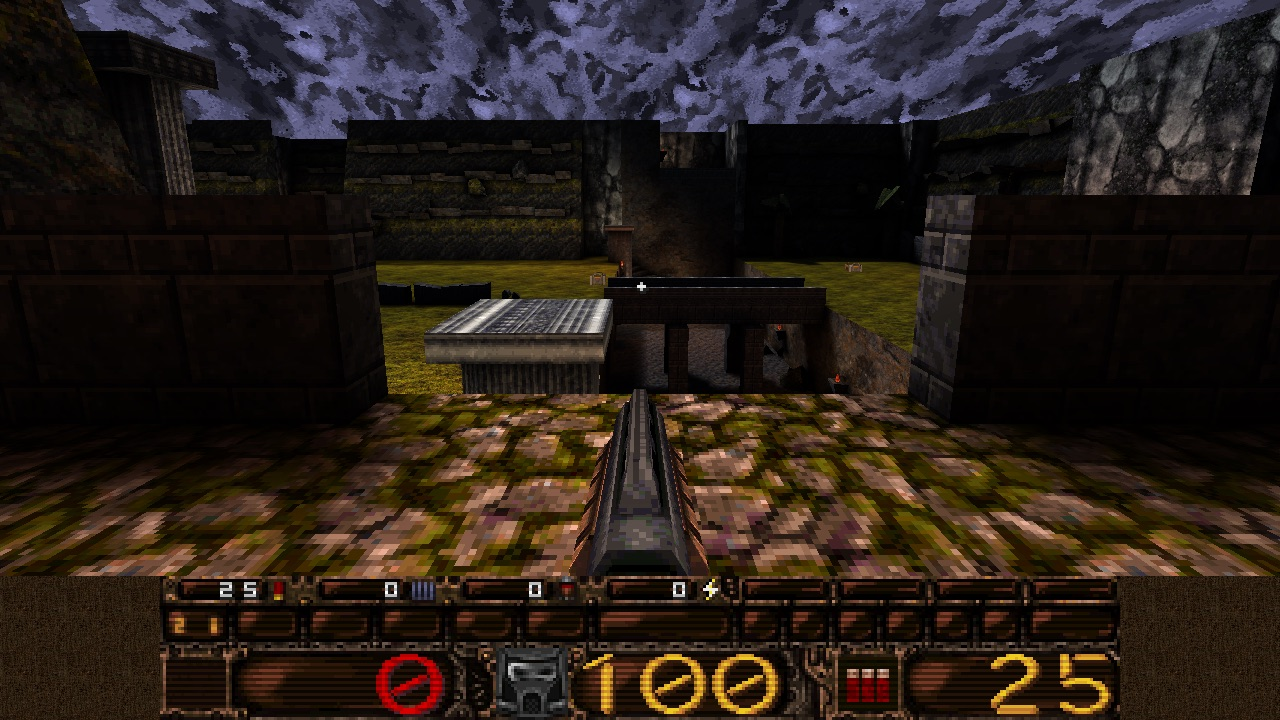
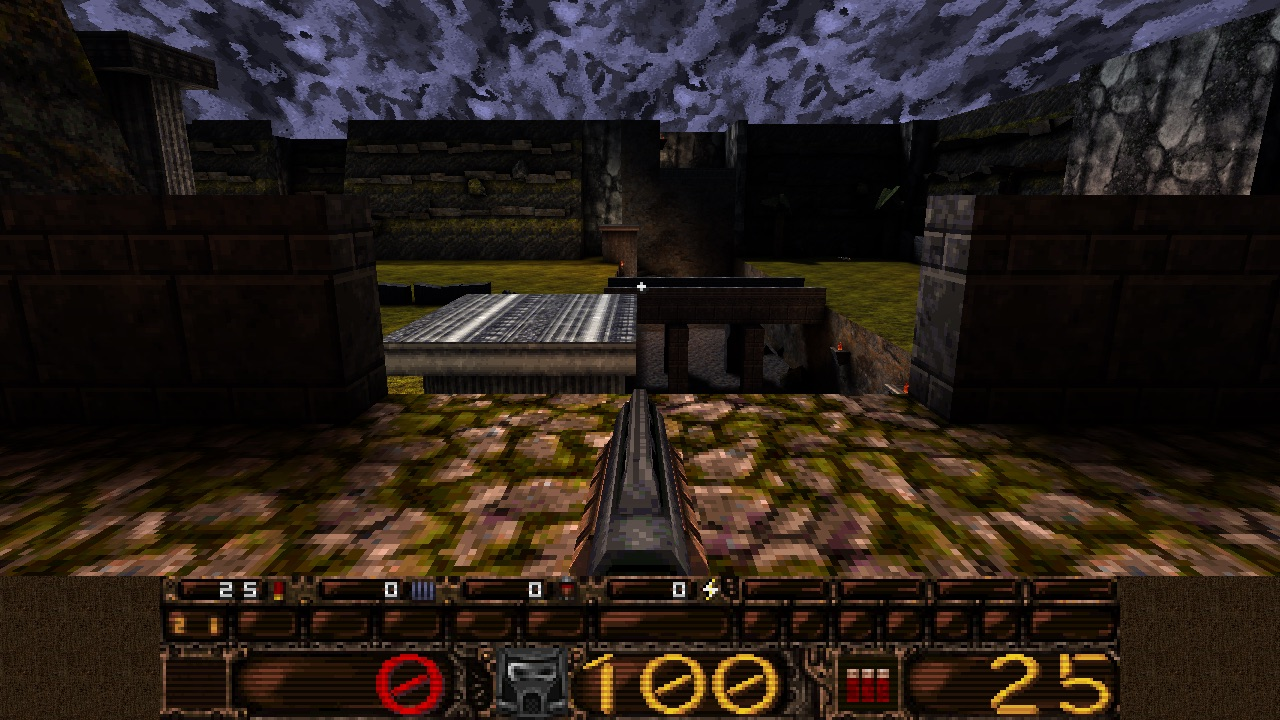
fix(arenas): Address the review of the second play-test fixes
- water: a stair's low treads count as a way out only when the walk from
  the hall reaches them without wading. Hull 1 holds water as empty, so a
  walk across the pool floor could reach an island and count it.
- The fixture test measures the highest floor under any part of a
  player's hull that meets the fixture, 16 past it along the wall and out
  from it. It found three spots: two chasm sconces over rocks, and the
  tower's sconce over its parapet. All three are raised, with their twins.
- The spiral fill box is checked along each edge, not only at a step's
  ends, so no edge can cut a step inside r1.
- The newel posts meet the steps' inner edge, leaving no slot or cut-off
  water between them.
- A test finds sky faces by the sky behind them with the sky textures
  renamed.
- The stray ivy panels are gone, one floating in the approach and one
  buried in a lean wedge. The water rule and _check_themed's doc are
  brought up to date.

Changed region(s): [[0.2812, 0.3361, 0.5, 0.55], [0.625, 0.4889, 0.7188, 0.55]]

diff --git a/tools/validate_bsp.py b/tools/validate_bsp.py
@@ -87,7 +87,8 @@ The themed arenas (tools/arena_layout.py) name more in "_psq_rules":
              the skylight or roof openings are sealed
   water      every water area has at least 2 exits: separate stretches of rim
              or stairs, within 48 of it, where the player stands dry at most
-             40 above it
+             40 above it, each beside a stand point outside the water or
+             walked to from the hall entry without wading (an island is not)
   framed     every face of a framed texture (a door, a panel, a lamp, the
              teleporter pad and frame), but slivers under half the picture,
              starts the picture at its corner and shows whole copies of it
@@ -885,13 +886,14 @@ FRAMED_SILL = 16   # a room's floor runs a wall's thickness into its doorway
 
 
 def _check_themed(r, bsp, ents, entry, rules, cell_size):
-    """central, exits, levels, sightline, drops, sky, water, framed and
-    lavalight, each when _psq_rules names it (see the module's list)."""
+    """central, exits, levels, sightline, drops, sky, water, framed,
+    walkways, routelight, fixtures and skywall, each when _psq_rules names it
+    (see the module's list), and lavalight."""
     nodes2 = None
     if "central" in rules:
         nodes2 = _lattice_nodes(bsp, HULL_LARGE)
         _check_central(r, bsp, ents, cell_size, nodes2)
-    seen = frozenset()
+    nodes1 = first = None
     if rules_any(rules, "levels", "drops", "walkways", "routelight", "fixtures", "water"):
         nodes1 = _lattice_nodes(bsp, HULL_PLAYER)
         first = _nearest_node(nodes1, entry)
@@ -911,7 +913,7 @@ def _check_themed(r, bsp, ents, entry, rules, cell_size):
     if "sky" in rules:
         _check_sky(r, bsp, ents[0])
     if "water" in rules:
-        _check_water(r, bsp, seen)
+        _check_water(r, bsp, nodes1, first)
     if "framed" in rules:
         _check_framed(r, bsp)
     if "skywall" in rules:
@@ -1305,12 +1307,22 @@ def _liquid_groups(bsp):
     return [(c, (tuple(lo), tuple(hi))) for c, lo, hi in groups.values()]
 
 
-def _check_water(r, bsp, seen=frozenset()):
+def _check_water(r, bsp, nodes=None, first=None):
+    """See 'water'. nodes and first: the player's lattice and the hall
+    entry's node, for the walk on dry feet to a stair's low treads."""
     waters = [g for g in _liquid_groups(bsp) if g[0] == -3]
     if not waters:
         r.check("water", True, "no water")
         return
-    nodes = _lattice_nodes(bsp, HULL_PLAYER)
+    if nodes is None:
+        nodes = _lattice_nodes(bsp, HULL_PLAYER)
+    seen = set()
+    if first:
+        # hull 1 holds water as empty: keep the walk out of it, so a stand
+        # point counts only if reached without wading (not an island)
+        wet = {(x, y, h) for (x, y), hs in nodes.items() for h in hs
+               if bsp.contents(0, (x, y, h - STAND_Z + 2)) in LIQUIDS}
+        seen = _flood(bsp, HULL_PLAYER, nodes, first, STEP, stairs=True, blocked=wet)
     problems = []
     for _, (lo, hi) in waters:
         surf = hi[2]
@@ -1328,8 +1340,8 @@ def _check_water(r, bsp, seen=frozenset()):
                     if (x, y, h) in seen:
                         walked.add((x, y))
         # exits: separate runs of rim or stair to climb out on that join the
-        # dry map (beside a stand point outside the water, or walked to from
-        # the hall: a stair's low treads; an island in the middle does
+        # dry map (beside a stand point outside the water, or walked to dry
+        # from the hall: a stair's low treads; an island in the middle is
         # neither), each counting once for
         # every WATER_EXIT_RUN across it (a rim all round is many ways out)
         def outside(x, y):

diff --git a/tools/arena_maps.py b/tools/arena_maps.py
@@ -488,15 +488,15 @@ def _ruins_sconces():
     out = []
     cup, trap, br = "cup", "trapezoid", "bracket"
     for design, axis, u, at, face, z in (
-            (trap, "x", -352, 1472, "-", -128), (trap, "x", 352, 1472, "-", -128),
-            (cup, "x", -160, 1472, "-", -120), (cup, "x", 160, 1472, "-", -120),
+            (trap, "x", -352, 1472, "-", -72), (trap, "x", 352, 1472, "-", -72),
+            (cup, "x", -160, 1472, "-", -68), (cup, "x", 160, 1472, "-", -68),
             (trap, "x", -320, 1088, "+", -128), (trap, "x", 320, 1088, "+", -128),
             (cup, "y", 1280, -768, "+", -120), (cup, "y", 1280, 768, "-", -120),
             (br, "x", -400, 1088, "+", -40), (br, "x", 400, 1088, "+", -40),
             (cup, "x", 900, 864, "-", 72), (cup, "y", 300, 800, "+", 72),
             (cup, "x", -960, -320, "+", 136), (cup, "x", -480, -576, "+", 72),
             (cup, "x", 480, -576, "+", 72), (br, "y", 1100, 1024, "-", 192),
-            (trap, "x", -816, 1216, "+", 320)):
+            (trap, "x", -816, 1216, "+", 360)):
         out.append(("sconce", dict(design=design, axis=axis, u=u, at=at, face=face, z=z,
                                    tex=RUIN_TRIM)))
     return out
@@ -603,9 +603,10 @@ def _ruins():
     for seed, (x, y, z) in enumerate(feet):
         pieces.append(("rocks", dict(seed=40 + seed, cx=x, cy=y, z0=z, radius=48, count=4,
                                      size=72, tex=ROCK)))
-    # newel posts at the spirals' hubs, standing over field_n's ends
+    # newel posts at the spirals' hubs, standing over field_n's ends; wide
+    # enough (inradius 48) to meet the steps' inner edge, leaving no slot
     for x in (-608, 608):
-        pieces.append(("column", dict(cx=x, cy=1088, r=36, z0=-192, z1=112, tex=PILLAR,
+        pieces.append(("column", dict(cx=x, cy=1088, r=52, z0=-192, z1=112, tex=PILLAR,
                                       cap_tex=RUIN_TRIM)))
     # arches under the bridge
     for y in (1216, 1344):
@@ -617,9 +618,6 @@ def _ruins():
         h = (288, 96, 224, 64, 288, 160, 80, 256)[k % 8]
         pieces.append(("column", dict(cx=608, cy=y, r=16, z0=0, z1=h, tex=PILLAR, cap_tex=RUIN_TRIM)))
     pieces.append(("box", dict(lo=(584, -240, 288), hi=(632, 400, 312), tex=RUIN_TRIM)))
-    # ivy on the cliff by the keep's doors and on the approach
-    for lo, hi in (((-640, -560, 0), (-636, -360, 220)), ((764, -320, 0), (768, -120, 200))):
-        pieces.append(("box", dict(lo=lo, hi=hi, tex="vines1")))
     # trees on the terraces and the plateau
     for seed, (x, y, z) in enumerate(((-1104, 320, 64), (-816, -272, 64), (-1104, 912, 128),
                                        (-816, 440 + 64, 128), (-688, 1600, 0), (688, 1600, 0),
@@ -877,7 +875,6 @@ def _forge():
         pieces.append(("alcove_torch", dict(axis="x", u=x, at=-576, face="+", z=72,
                                             tex="met_blc_trim32")))
     pieces += _forge_sconces()
-    # cover in the hall's cross: anvils of dark metal
 
     items = [
         ("weapon_supershotgun", -544, -448, 16), ("item_shells", 544, -480, 16),

diff --git a/tests/arena/test_arena_kit.py b/tests/arena/test_arena_kit.py
@@ -278,8 +278,9 @@ class Stairs(unittest.TestCase):
     def test_fixtures_clear_the_player(self):
         """No sconce or alcove torch sticking out of a wall hangs low enough
         to catch the player walking along that wall: its lowest part that
-        stands out of the wall is at least PLAYER_TOP + CLEAR over the floor
-        under it (measured in front of it, on every map)."""
+        stands out of the wall is at least PLAYER_TOP + CLEAR over the
+        highest floor under any part of a player's hull that meets it (16
+        past it along the wall and out from it), on every map."""
         bad = []
         for name, L in arena_maps.MAPS.items():
             world, ents, D = arena_layout.build(dict(L))
@@ -296,12 +297,23 @@ class Stairs(unittest.TestCase):
                     continue    # flush or recessed: nothing to catch on
                 stick = max(s * (q[i] - a["at"]) for q in out)
                 low = min(q[2] for q in out)
+                j = 0 if a["axis"] == "x" else 1
+                along = [q[j] - a["u"] for q in out]
                 w = K._on_wall(a["axis"], a["u"], a["at"], a["face"])
-                x, y, _ = w(0, stick / 2, 0)
-                z = low - 1
-                while z > low - 4096 and not so.solid((x, y, z)):
-                    z -= 1
-                floor = z + 1
+                # the highest floor under any part of a player's hull that
+                # meets the fixture: 16 past it along the wall and out
+                floor = None
+                for da in range(int(min(along)) - 16, int(max(along)) + 17, 8):
+                    for do in range(2, int(stick) + 17, 8):
+                        x, y, _ = w(da, do, 0)
+                        z = low - 1
+                        if so.solid((x, y, z)):
+                            continue
+                        while z > low - 4096 and not so.solid((x, y, z)):
+                            z -= 1
+                        floor = z + 1 if floor is None else max(floor, z + 1)
+                if floor is None:
+                    continue
                 if low - floor < self.PLAYER_TOP + self.CLEAR:
                     bad.append(f"{name} {a.get('design', kind)} at {a['axis']} {a['u']} on "
                                f"{a['at']}: {stick:g} out of the wall, {low - floor:g} over the "

diff --git a/tests/arena/test_validate_themed.py b/tests/arena/test_validate_themed.py
@@ -137,6 +137,23 @@ class Themed(unittest.TestCase):
             vb._check_skywall(r, vb.Bsp(bytes(data)))
         self.assertEqual(r.failed, ["skywall"])
 
+    def test_skywall_finds_sky_by_contents(self):
+        """A sky brush's face is found by the sky behind it, not only by its
+        texture: with the sky textures renamed, every sky face still counts."""
+        def count(bsp):
+            out = io.StringIO()
+            with contextlib.redirect_stdout(out):
+                vb._check_skywall(vb.Report(), bsp)
+            return out.getvalue()
+        names = {m[0] for m in BSP.miptex() if m[0] and m[0].startswith("sky")}
+        self.assertTrue(names)
+        data = bytes(DATA)
+        for n in names:
+            data = data.replace(n.encode() + b"\0", b"x" + n[1:].encode() + b"\0")
+        renamed = vb.Bsp(data)
+        self.assertFalse(any(m[0].startswith("sky") for m in renamed.miptex() if m[0]))
+        self.assertEqual(count(renamed), count(BSP))
+
     def test_crafted_values_fail(self):
         self.assertIn("format", themed(edited(_psq_central="-1e30 -1e30 1e30 1e30 0"),
                                        ["sky"]))

diff --git a/tools/arena_kit.py b/tools/arena_kit.py
@@ -458,6 +458,11 @@ def spiral_stairs(cx, cy, r0, r1, a0, a1, z0, z1, steps, tex, fill=None):
                 if d < r1:
                     raise KitError(f"spiral fill {fill} cuts the stair inside r1")
                 ring.append((cx + d * math.cos(t), cy + d * math.sin(t)))
+            # each edge's nearest point to the hub, if inside the span
+            for d, tn in ((fill[2] - cx, 0.0), (cy - fill[1], -math.pi / 2),
+                          (cx - fill[0], math.pi), (fill[3] - cy, math.pi / 2)):
+                if any(lo < tn + k * 2 * math.pi < hi for k in (-1, 0, 1)) and d < r1:
+                    raise KitError(f"spiral fill {fill} cuts the stair inside r1")
             for x, y in ((fill[0], fill[1]), (fill[2], fill[1]), (fill[0], fill[3]),
                          (fill[2], fill[3])):
                 ta = math.atan2(y - cy, x - cx)
